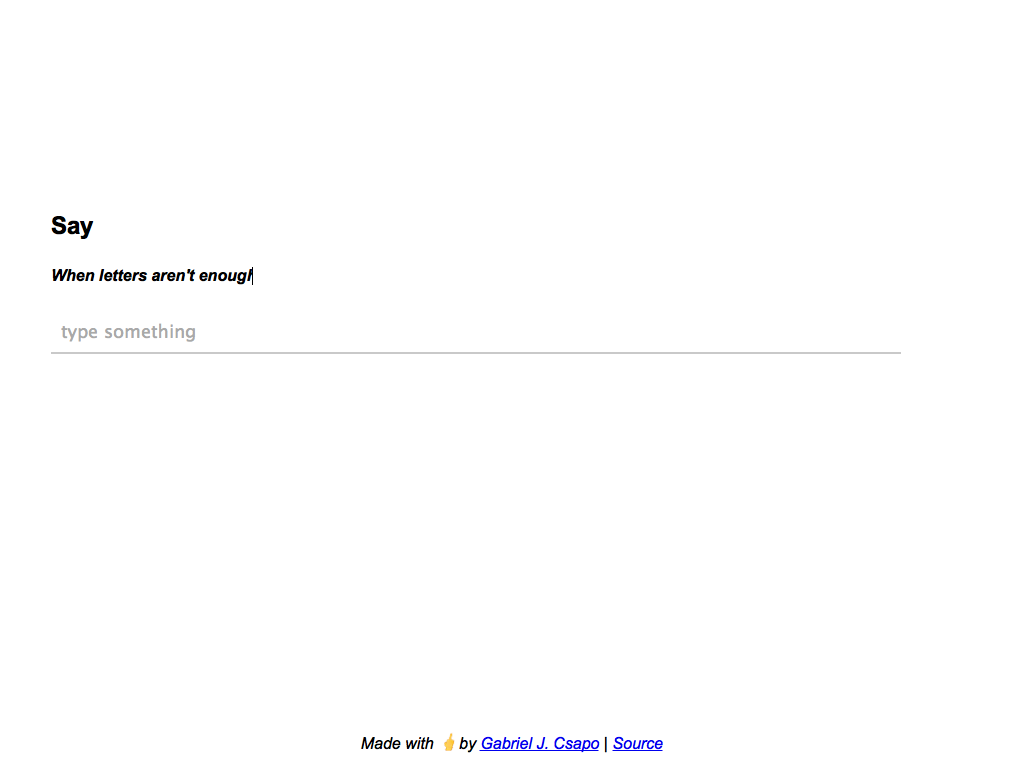
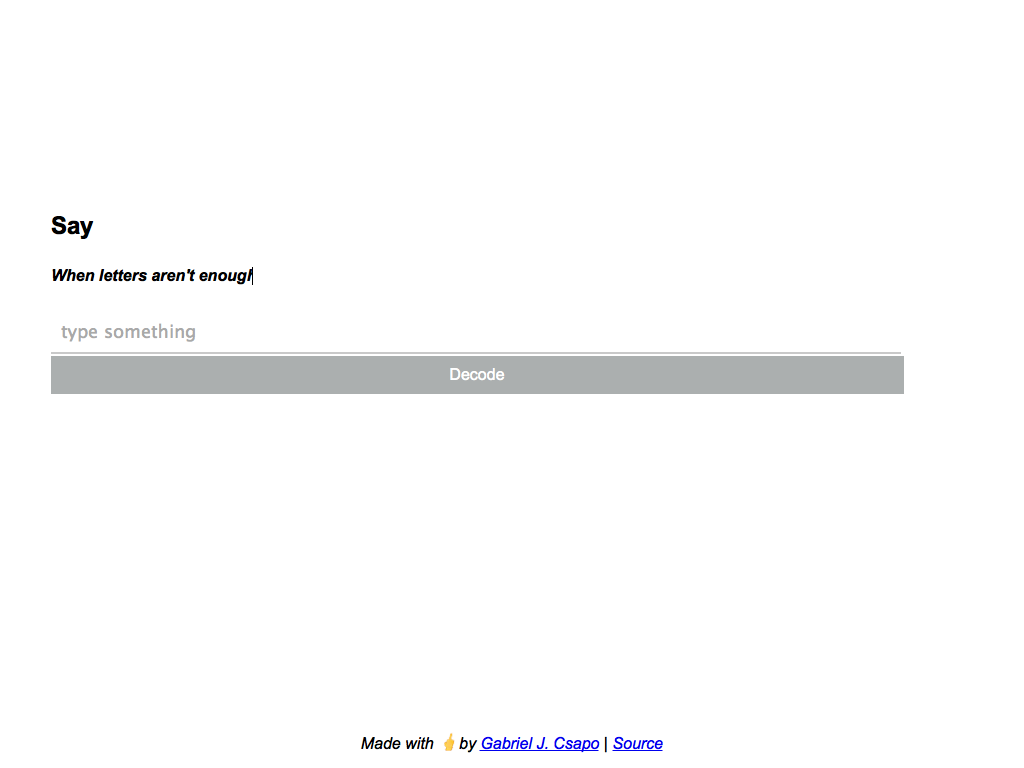
adds decode functionality

Changed region(s): [[0.0312, 0.4375, 0.9062, 0.5312]]

diff --git a/saywhat.js b/saywhat.js
@@ -1,5 +1,5 @@
 var character_map = {
-    'A': ["Ą", "💧", "Д", "Å", "∧", "ᐃ", "@", "ᥪ", "𝚫", "ᕕ", "🌀"],
+    'A': ["Ą", "💧", "Д", "Å", "ᐃ", "@", "ᥪ", "𝚫", "ᕕ", "🌀"],
     'B': ["ϐ", "ᵦ", "฿", "𝟾", "8"],
     'C': ["Ꞇ", "⸦", "ᙅ", "🌊"],
     'D': ["𐌃", "⌷", "ŋ", "ე"],
@@ -27,25 +27,73 @@ var character_map = {
     'Z': ["ℤ", "೭", "2", "ƻ", "ϩ", "💤"]
 };
 
-var Say = function(input) {
-    var out = "";
-    input.split('').forEach(function(letter) {
-        letter = letter.toUpperCase();
-        if(character_map[letter]) {
-            var length = character_map[letter].length;
-            if (length > 0) {
-                // get a random index of the array
-                var index = Math.floor((Math.random() * length) + 0);
-                out += character_map[letter][index];
+// TODO: ew 
+var splitEmojis = function (str) {
+  split = str.split(/([\uD800-\uDBFF][\uDC00-\uDFFF])/);
+  arr = [];
+  for (var i=0; i<split.length; i++) {
+    char = split[i]
+    if (char !== "") {
+      arr.push(char);
+    }
+  }
+  return arr;
+};
+
+var Say = {
+    // TODO: clean this up
+    decode: function(input) {
+        var raw = splitEmojis(input);
+        var out = "";
+        var check = [];
+        raw.forEach(function(val) {
+            console.log(val);
+            console.log(val.length);
+            if(val.length > 2) {
+                val.split('').forEach(function(v){
+                    check.push(v);
+                });
+            } else {
+                check.push(val);
+            }
+        });
+        check.forEach(function(letter) {
+            if(letter == ' ') {
+                out += letter;
+            } else {
+                for(var key in character_map) {
+                    console.log(letter.toString('utf8'));
+                    if(character_map[key].indexOf(letter) > -1) {
+                        console.log(letter);
+                        console.log(key);
+                        out += key;
+                        break;
+                    }
+                }
+            }
+        });
+        return out;
+    },
+    encode: function(input) {
+        var out = "";
+        input.split('').forEach(function(letter) {
+            if(letter.match(/[a-z]/i)) {
+                letter = letter.toUpperCase();
+                var length = character_map[letter].length;
+                if (length > 0) {
+                    // get a random index of the array
+                    var index = Math.floor((Math.random() * length) + 0);
+                    out += character_map[letter][index];
+                } else {
+                    out += letter;
+                }
             } else {
                 out += letter;
             }
-        } else {
-            out += letter;
-        }
-    });
-    return out;
-};
+        });
+        return out;
+    }
+}
 
 if (typeof module === "object" && typeof module.exports === "object" ) {
     module.exports = Say;

diff --git a/index.html b/index.html
@@ -24,7 +24,7 @@
                 right: 0;
             }
             input[type="text"] {
-              display: block;
+              display: inline-block;
               margin: 0;
               width: 90%;
               font-family: sans-serif;
@@ -47,6 +47,18 @@
             }
             h1 {
                 width: 100%;
+            }
+            button {
+                display: inline-block;
+                background-color: #abafaf;
+                border: none;
+                color: white;
+                width: 92.5%;
+                padding: 10px 20px;
+                text-align: center;
+                text-decoration: none;
+                display: inline-block;
+                font-size: 16px;
             }
             .footer {
                 position: fixed;
@@ -90,16 +102,19 @@
         <div class="center">
             <h2>Say</h2>
             <h5 id="subtext">When letters aren't enough</h5>
-            <input id="sayInput" type="text" placeholder="type something" />
+            <input id="sayInput" type="text" placeholder="type something" /><button id="btnDecode">Decode</button>
             <h3 id="sayOutput"></h3>
         </div>
         <script src="saywhat.js"></script>
         <script>
             setTimeout(function(){
-                document.querySelector('#subtext').innerHTML = window.Say(document.querySelector('#subtext').innerHTML);
+                document.querySelector('#subtext').innerHTML = window.Say.encode(document.querySelector('#subtext').innerHTML);
             }, 5000)
             document.querySelector('#sayInput').onkeyup = function() {
-                document.querySelector('#sayOutput').innerHTML = window.Say(document.querySelector('#sayInput').value);
+                document.querySelector('#sayOutput').innerHTML = window.Say.encode(document.querySelector('#sayInput').value);
+            }
+            document.querySelector('#btnDecode').onclick = function() {
+                document.querySelector('#sayOutput').innerHTML = window.Say.decode(document.querySelector('#sayInput').value);
             }
         </script>
         <div class="footer">
